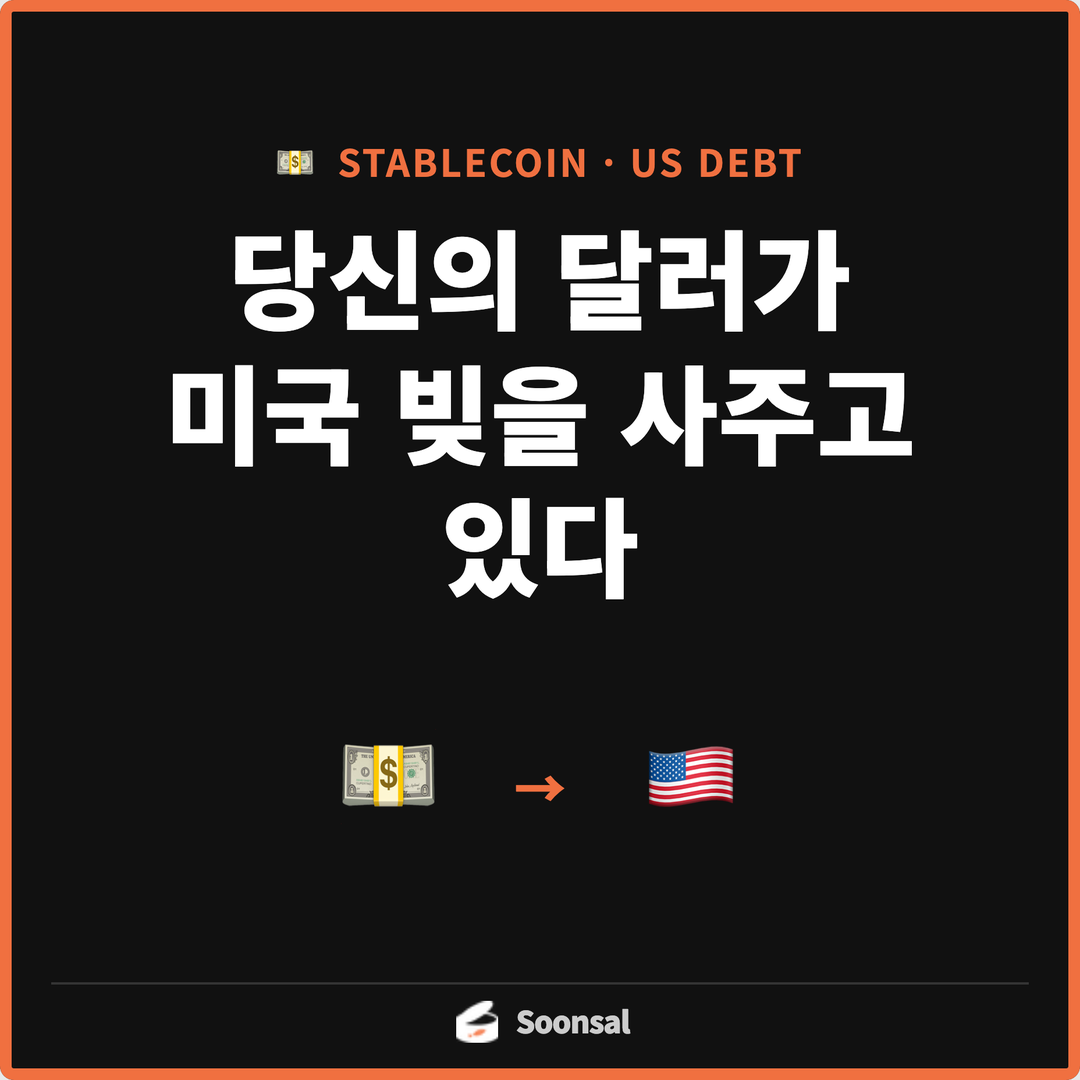
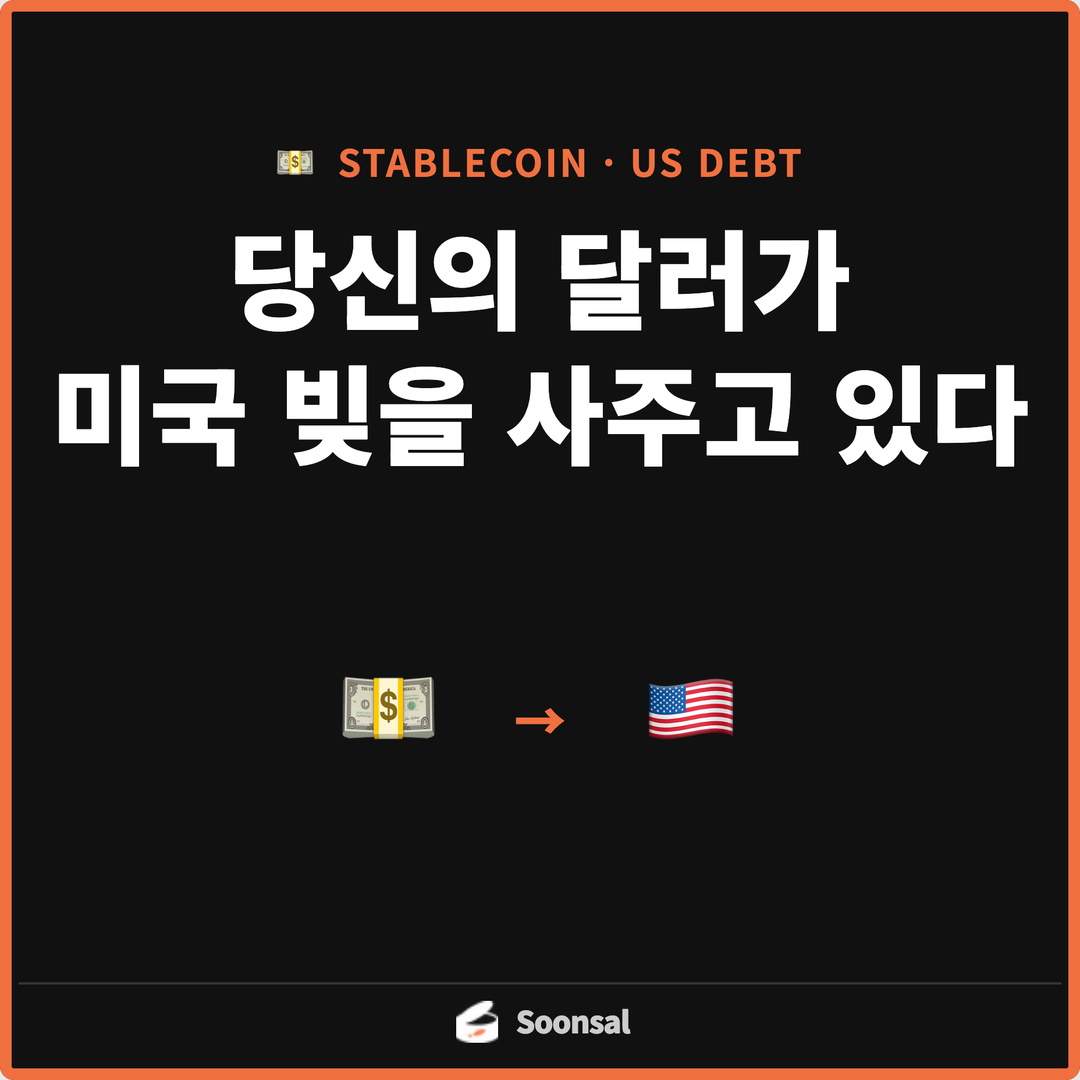
Add 순살크립토카드뉴스 0320

diff --git a/cardnews/2026/0320-crypto.html b/cardnews/2026/0320-crypto.html
@@ -80,7 +80,7 @@
 <div class="series-title">순살크립토 카드뉴스 · 2026.03.20</div>
 
 <!-- ===== CARD 1 (커버) ===== -->
-<div class="card" style="background:#111; box-shadow:inset 0 0 0 5px #F07040;">
+<div class="card" style="background:#111; box-shadow:inset 0 0 0 5px #F07040; padding-left:8px; padding-right:8px;">
   <div style="flex:0 1 auto; text-align:center; padding-top:36px;">
     <div style="font-size:16px; color:#F07040; font-weight:700; letter-spacing:1px; margin-bottom:8px;">💵 STABLECOIN · US DEBT</div>
     <div class="top-text cover-title" style="color:#fff; font-size:42px; line-height:1.25; word-break:keep-all;">당신의 달러가<br>미국 빚을 사주고 있다</div>
